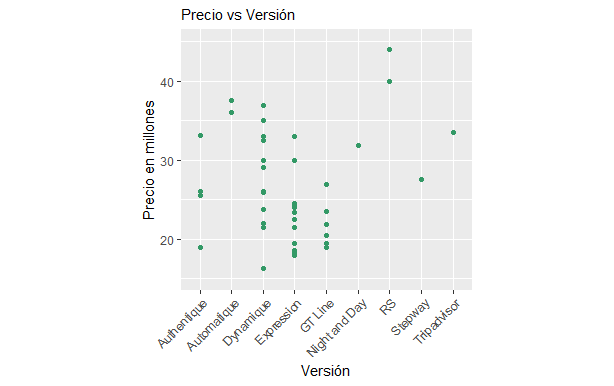
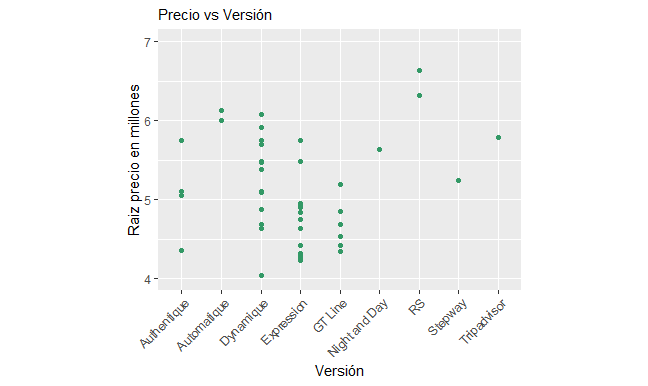
Add files via upload

diff --git a/document.tex b/document.tex
@@ -1,0 +1,127 @@
+\documentclass[12pt,a0,portrait]{a0poster}
+\usepackage{multicol}
+\columnsep=100pt
+\columnseprule=0pt
+\usepackage[spanish,activeacute]{babel}
+\usepackage{babelbib}
+\usepackage{subfigure} 
+\usepackage[svgnames]{xcolor}
+\usepackage{graphicx}
+\usepackage{booktabs}
+\usepackage{amsfonts, amsmath, amsthm, amssymb}
+\usepackage{wrapfig}
+\begin{document}
+\definecolor{darkbyzantium}{rgb}{0.36, 0.22, 0.33}
+\definecolor{byzantine}{rgb}{0.74, 0.2, 0.64}
+\definecolor{green(ncs)}{rgb}{0.0, 0.62, 0.42}	
+\definecolor{gray-asparagus}{rgb}{0.27, 0.35, 0.27}
+
+\begin{minipage}[b]{0.75\linewidth}
+\Huge\textcolor{green(ncs)}{\textbf{\Huge Modelo del precio de un Sandero usado en Risaralda}} \\ 
+\textcolor{gray-asparagus}{\textit{\Huge Mediante regresi\'on lineal m\'ultiple}}\\ [0.2cm] % Subtitle 
+\textbf{\LARGE Daniela Aguiar Valencia} \textit{\large daniela.aguiar@udea.edu.co}\\
+\textbf{\LARGE Stefanny Arboleda Ceferino} \textit{\large stefanny.arboleda@udea.edu.co}\\[0.5cm] % Author(s)
+\LARGE Instituto de Matem\'aticas \\Facultad de Ciencias Exactas y Naturales \\[0.4cm] % University/organization	
+	\end{minipage}
+	%
+\begin{minipage}[b]{0.25\linewidth}
+\includegraphics[scale=0.5]{logoudea}
+\end{minipage}
+\begin{multicols}{2}
+
+\definecolor{ginger}{rgb}{0.69, 0.4, 0.0}
+
+\section*{\textcolor{ginger}{\huge Introducci\'on}}
+El objetivo de este trabajo es elaborar un modelo de regresi\'on lineal m\'ultiple para la variable precio de los autom\'oviles de la referencia Renault Sandero en sus diferentes versiones y modelos, en el departamento de Risaralda. Usando el m\'etodo de \textit{stepwise} se hace una b\'usqueda de las variables m\'as significativas para el problema, se obtiene un modelo y se hacen algunas interpretaciones, por \'ultimo se da un ejemplo usando el modelo obtenido.
+
+\section*{\textcolor{ginger}{\huge Dise\~no metodol\'ogico}}
+
+Los datos utilizados para este trabajo, se obtuvieron del sitio web \textit{www.tucarro.com} que consta de 47 observaciones, cada registro contiene informaci\'on variada de los veh\'iculos a la venta como precio, a\~no, kilometraje, versi\'on, direcci\'on, transmisi\'on, color, puertas, aire acondicionado, vidrios el\'ectricos, entre otros. Seguidamente se hizo una depuraci\'on de los datos eliminando aquellas columnas que no estaban bien especificadas, al no ser informaci\'on obligatoria en la plataforma, estos datos se encontraban muy incompletos. Despu\'es, se procede a verificar si la variable respuesta tiene distribuci\'on normal, como no result\'o serlo, se hizo la transformaci\'on $Y=\sqrt{precio\ en\ millones}$ la cual es normal y sobre esta se plantea el modelo. Finalmente, se verifica que se cumplan las condiciones de normalidad sobre los residuales.
+
+\section*{\textcolor{ginger}{\huge Elecci\'on de variables regresoras}}
+
+Despu\'es de hacer el an\'alisis de la base de datos se escogieron como posibles variables regresoras las siguientes: $X_1= \text{A\~no}$ (modelo), $X_2=\text{Kilometraje}$, $X_3= \text{Versi\'on}$, $X_4=\text{Transmisi\'on}$, $X_5=\text{Color}$, $X_6=\text{Direcci\'on}$. Donde las variables versi\'on, transmisi\'on, direcci\'on y color son variables categ\'oricas.
+
+\section*{\textcolor{ginger}{\huge Relaciones gr\'aficas}}
+
+Sea $Y=\sqrt{\text{precio\ en\ millones}}$, se ha contrastado con cada variable regresora y se han obtenido las siguientes gr\'aficas:
+\begin{center}
+	\includegraphics[scale=1]{PvsA}
+	\includegraphics[scale=1]{PvsK}\\
+	\includegraphics[scale=1]{PvsT}
+	\includegraphics[scale=1]{PvsD}\\
+	\includegraphics[scale=1]{PvsC}
+	\includegraphics[scale=1]{PvsV}
+\end{center}
+
+De acuerdo con \'estas, se ha decidido descartar a $X_6= \text{Direcci\'on}$ como posible variable regresora, dado que tiene s\'olo dos registros diferentes a hidr\'aulica. 
+
+\section*{\textcolor{ginger}{\huge Selecci\'on del modelo}}
+
+Se ha realizado una regresi\'on \textit{stepwise} hacia adelante incluyendo en primera instancia la variable con mayor significancia de manera individual, para el caso estudiado en este trabajo, dicha variable es $X_1=\text{A\~no}$; a este modelo lineal simple se le a\~nadieron las variables $X_3=\text{Versi\'on}$, $X_4=\text{Transmisi\'on}$, $X_5=\text{Color}$, en ese orden; para esto, hicimos uso de los modelos anidados y las tablas anova. Obteniendo as\'i, el modelo de regresi\'on lineal m\'ultiple $$lm(Y \sim X_{1} + X_{3} + X_{4} + X_{5})$$ 
+
+\begin{center}
+
+\begin{tabular}{l c}
+	Coefficients  &           \\
+	              & Estimate    \\
+	(Intercept)   &-312.51104 \\
+	a\~no         &   0.15783\\
+	versi\'onAutomatique  &   0.29917 \\ 
+	versi\'onDynamique    &   0.30790\\ 
+	versi\'onExpression   &   0.19132 \\ 
+	versi\'onGT Line      &   0.40644  \\ 
+	versi\'onNight and Day&   0.36857\\ 
+	versi\'onRS           &   1.29756 \\
+	versi\'onStepway      &   0.56390  \\ 
+	versi\'onTripadvisor  &   0.45271\\
+	transmisi\'onMec\'anica     &  -0.43936 \\ 
+	colorBlanco       &  -0.20955  \\ 
+	colorGris         &  -0.23331  \\ 
+	colorNegro        &  -0.23768  \\  
+	colorPlateado     &  -0.27418   \\  
+	colorRojo         &  -0.44327 \\ 
+
+\end{tabular}
+\end{center} 
+
+Al iniciar la regresi\'on stepwise con $X_{1}$ fija, se encuentra que $X_3=\text{Versi\'on}$ es la m\'as significativa para el modelo. Sin embargo, al tener $X_{1}$ y $X_{3}$ fijas, $X_2=\text{Kilometraje}$ no es significativa para \'este y por el contrario, $X_4=\text{Transmisi\'on}$ s\'i lo es. Se procede a analizar la base de datos para encontrar el por qu\'e de este hecho y se encuentran kilometrajes iguales con precios que distan mucho entre s\'i. Finalmente, al modelo $lm(Y\sim  X_{1} + X_{3} + X_{4})$ se le agrega $X_{5}=\text{Color}$ pues como se ve en el siguiente gr\'afico, al menos un color es significativo todos los a\~nos.
+
+\begin{center}
+	\includegraphics[scale=1.5]{Colorvsa}
+\end{center} 
+
+\subsection*{\textcolor{ginger}{Interpretaci\'on}}
+
+\begin{itemize}
+	\item Dejando las dem\'as variables constantes, por cada a\~no que aumente el modelo, se aumenta el precio en 0.158 millones de pesos.
+	\item Dejando las dem\'as variables constantes, las versiones Automatique, Dynamique, Expression, GT line, Night and Day, RS, Stepway y Tripadvisor son respectivamente 0.30, 0.31, 0.19, 0.41, 0.37, 1.30  y 0.56 millones de pesos m\'as caros que el nivel de referencia  Authentique.
+	\item Dejando las dem\'as variables constantes, los colores blanco, gris, negro, plateado y rojo, son  respectivamente 0.21, 0.23, 0.24, 0.27 y  0.44 millones de pesos m\'as baratos que el nivel de referencia azul.
+	\item Dejando las dem\'as variables constantes, la transmisi\'on m\'ecanica es 0.44 millones de pesos m\'as barata que la transmisi\'on autom\'atica. 
+	
+\end{itemize}
+\section*{\textcolor{ginger}{\huge Normalidad de los residuos}}
+
+Se realiza el test de normalidad a los residuales del modelo y se concluye que en efecto son normales. Al graficar \'estos contra los valores ajustados por el modelo, se obtiene:
+\begin{center}
+	\includegraphics[scale=1.5]{Residuals}
+\end{center}
+
+
+\section*{\textcolor{ginger}{\huge Ejemplo}}
+Para un Sandero Dynamique modelo 2015, color blanco y de $60.000$km se tiene el siguiente estimativo:\\
+\begin{itemize}
+	\item Si la transmisi\'on es autom\'atica:  $Y=-312.51104+(0.15783\times2015)+0.30790-0.20955 = 5.61476 $ as\'i el precio ser\'ia 31.5 millones de pesos.
+	\item Si la tranmisi\'on es mec\'anica: $Y=-312.51104+(0.15783\times2015)+0.30790-0.20955-0.43936 = 5.1754 $ as\'i el precio ser\'ia 26.8 millones de pesos.
+\end{itemize}
+
+
+\section*{\textcolor{ginger}{\huge Referencias}}
+
+\begin{enumerate}
+	\item V, N\'u\~nez Ant\'on \& F. Tussel. ``Regresi\'on y An\'alisis de Varianza", 2007.
+	\item Montgomery, Douglas C. \& Peck, Elizabeth A. \& Vining, G. Geoffrey. ``Introduction to Linear Regression Analysis", Fifth Edition, Wiley.
+\end{enumerate}
+
+\end{multicols}
+\end{document}
